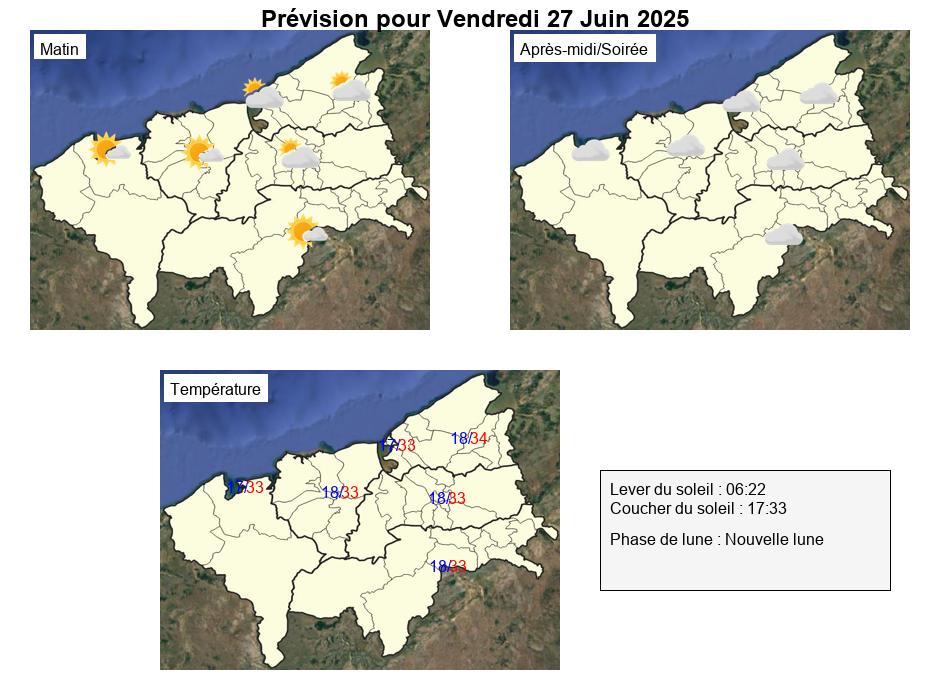
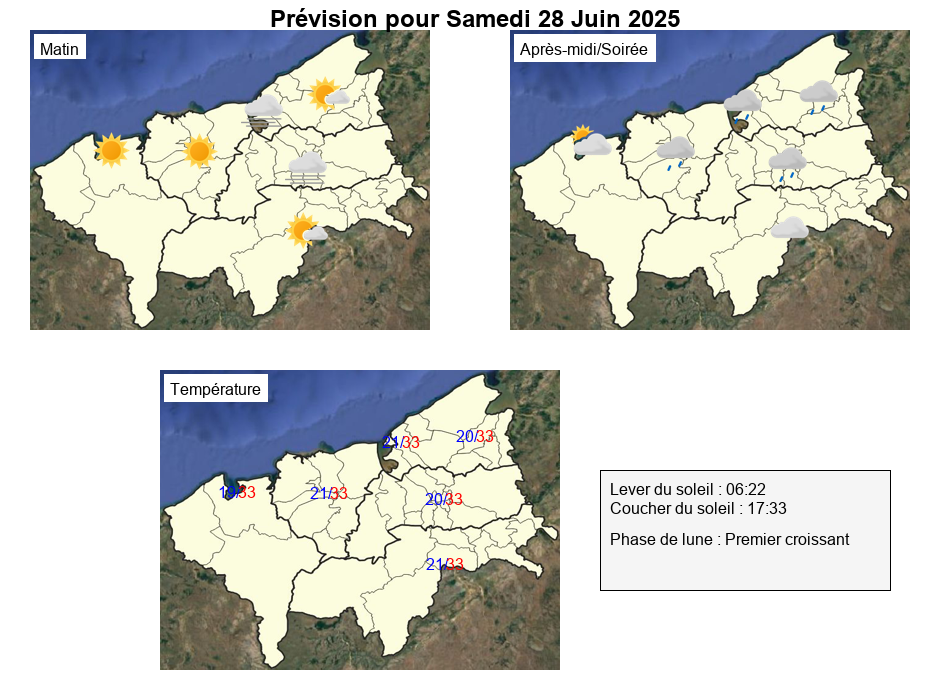
Forecast on 28/06/2025

diff --git a/script.js b/script.js
@@ -3,7 +3,7 @@ const niveauAlerte = "none";       // Options: "none", "blue", "green", "yellow"
 const typeCatastrophe = "cyclone"; // Options: "cyclone", "flood", "rainflood", "forestfire", "lightning", "flood", "stormsurge", "drivingconditions"
 
 const rawMessages = [
-    `**Prévisions journalières pour la Région BOENY, établi le 27/06/2025 à 06:30 AM**
+    `**Prévisions journalières pour la Région BOENY, établi le 28/06/2025 à 07:00 AM**
 	
 	
     ✅ **Aucune vigilance ou alerte en cours pour la Région BOENY**  
@@ -11,22 +11,22 @@ const rawMessages = [
     Restez informé en cas d’évolution de la situation.`,
 
     `**Prévisions – Jour 1 (Aujourd’hui)**  
-    Temps peu nuageux toute la matinée et très nuageux l'après-midi et le soir.
+    Brouillard au petit-matin dans quelques endroits, Temps ensoleillé le matin, devenant nuageux l'après-midi et surtout le soir, risque de pluie fine le soir.
     **Vents** : Vents modéré à fort de secteur ESE
-    **Températures minimales** : entre 17 et 18 °C
-    **Températures maximales** : entre 33 et 34 °C.`,
+    **Températures minimales** : entre 19 et 21 °C
+    **Températures maximales** : avoisinant les 33 °C.`,
 
     `**Prévisions – Jour 2 (Demain)**  
-    Temps ensoleillé le matin, devenant nuageux l'après-midi et surtout le soir, risque de crachin le soir.
-    **Vents** : Vents modéré du secteur SE
-    **Températures minimales** : entre 18 et 19 °C
-    **Températures maximales** : entre 32 et 34 °C.`,
+    Temps peu nuageux le matin, devenant ensoleillé l'après-midi et peu nuageux dans quelques endroits le soir.
+    **Vents** : Vents modéré à fort du secteur SE
+    **Températures minimales** : entre 20 et 22 °C
+    **Températures maximales** : entre 33 et 34 °C.`,
 
     `**Prévisions – Jour 3 (Après-demain)**  
     Temps ensoleillé toute la journée.
-    **Vents** : Vents modéré à fort de secteur ESE
-    **Températures minimales** : entre 19 et 20 °C
-    **Températures maximales** : entre 33 et 34 °C.`
+    **Vents** : Vents modéré de secteur ESE
+    **Températures minimales** : entre 19 et 21 °C
+    **Températures maximales** : entre 32 et 33 °C.`
 ];
 
 // Fonction pour mettre en gras HTML et majuscule le texte entre ** ** 
